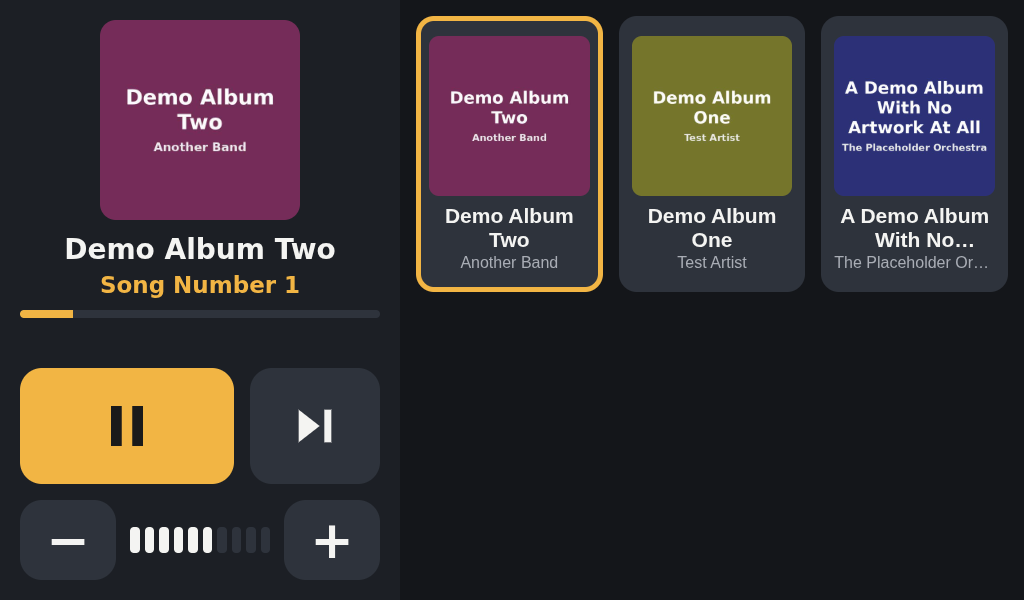
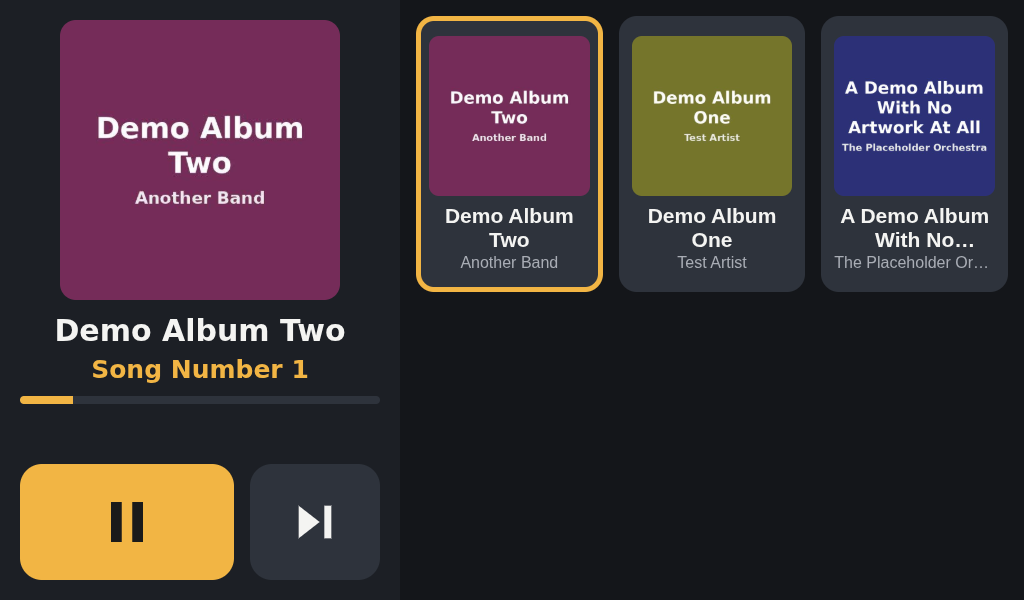
Remove in-app volume controls; set Pi output to full at startup

diff --git a/nonafi/static/style.css b/nonafi/static/style.css
@@ -24,10 +24,10 @@ body { display: flex; }
 .idle-text { font-size: 30px; font-weight: 700; color: var(--fg); }
 .idle-arrow { font-size: 64px; line-height: 1; color: var(--accent); }
 #playing { flex: 1; display: flex; flex-direction: column; min-height: 0; }
-#cover { width: 200px; height: 200px; border-radius: 16px; background: #333; object-fit: cover; align-self: center; }
-.title { font-size: 28px; font-weight: 800; line-height: 1.15; margin-top: 14px; text-align: center;
+#cover { width: 280px; height: 280px; border-radius: 16px; background: #333; object-fit: cover; align-self: center; }
+.title { font-size: 30px; font-weight: 800; line-height: 1.15; margin-top: 14px; text-align: center;
   overflow: hidden; display: -webkit-box; -webkit-line-clamp: 2; -webkit-box-orient: vertical; }
-.track { font-size: 23px; font-weight: 700; color: var(--accent); margin-top: 6px; text-align: center;
+.track { font-size: 25px; font-weight: 700; color: var(--accent); margin-top: 6px; text-align: center;
   white-space: nowrap; overflow: hidden; text-overflow: ellipsis; }
 .progress { height: 8px; background: var(--btn); border-radius: 4px; margin-top: 12px; overflow: hidden; }
 #bar { height: 100%; width: 0; background: var(--accent); }
@@ -40,11 +40,6 @@ body { display: flex; }
 .play:active { background: #ffc85c; }
 .skip { width: 130px; height: 116px; }
 .skip svg { width: 56px; height: 56px; }
-.volume { display: flex; align-items: center; gap: 14px; margin-top: 16px; }
-.vol { width: 96px; height: 80px; font-size: 52px; line-height: 1; }
-.vol-meter { flex: 1; display: flex; gap: 5px; height: 26px; }
-.vol-meter i { flex: 1; background: var(--btn); border-radius: 4px; }
-.vol-meter i.on { background: var(--fg); }
 
 /* Right: album pages */
 #library { flex: 1; position: relative; display: flex; }

diff --git a/nonafi/static/app.js b/nonafi/static/app.js
@@ -7,7 +7,6 @@
   let current = null;   // album being played
   let index = 0;        // song index in that album
   let page = 0;
-  let volume = 50;
 
   // ---- album pages ----------------------------------------------------
   async function loadAlbums() {
@@ -101,31 +100,6 @@
   audio.addEventListener("timeupdate", () => {
     $("bar").style.width = (audio.duration ? (audio.currentTime / audio.duration) * 100 : 0) + "%";
   });
-
-  // ---- volume (real system volume, via the server) ---------------------
-  function renderVolume() {
-    const m = $("vol-meter");
-    m.innerHTML = "";
-    for (let i = 1; i <= 10; i++) {
-      const s = document.createElement("i");
-      if (volume >= i * 10 - 5) s.classList.add("on");
-      m.appendChild(s);
-    }
-  }
-  async function setVolume(v) {
-    volume = Math.max(0, Math.min(100, v));
-    renderVolume();
-    try {
-      const res = await fetch("/api/volume", { method: "POST", headers: { "Content-Type": "application/json" },
-        body: JSON.stringify({ volume }) });
-      const data = await res.json();
-      if (typeof data.volume === "number") { volume = data.volume; renderVolume(); }
-    } catch (e) {}
-  }
-  $("vol-up").addEventListener("click", () => setVolume(volume + 10));
-  $("vol-down").addEventListener("click", () => setVolume(volume - 10));
-  fetch("/api/volume").then(r => r.json()).then(d => { if (typeof d.volume === "number") volume = d.volume; renderVolume(); })
-    .catch(renderVolume);
 
   // No long-press menus, no pinch zoom.
   document.addEventListener("contextmenu", (e) => e.preventDefault());

diff --git a/nonafi/static/index.html b/nonafi/static/index.html
@@ -29,11 +29,6 @@
       </button>
     </div>
   </div>
-  <div class="volume">
-    <button id="vol-down" class="btn vol" aria-label="Quieter">&#8722;</button>
-    <div class="vol-meter" id="vol-meter"></div>
-    <button id="vol-up" class="btn vol" aria-label="Louder">+</button>
-  </div>
 </aside>
 
 <main id="library">

diff --git a/nonafi/server.py b/nonafi/server.py
@@ -1,4 +1,4 @@
-"""HTTP server: static UI, album JSON, cover images, audio with Range support, volume."""
+"""HTTP server: static UI, album JSON, cover images, audio with Range support."""
 
 from __future__ import annotations
 
@@ -26,23 +26,13 @@ MIME = {
 }
 
 
-def get_volume() -> int | None:
+def set_output_full() -> None:
+    """Volume is controlled on the speakers, so give them the full signal."""
     try:
-        out = subprocess.run(["wpctl", "get-volume", "@DEFAULT_AUDIO_SINK@"], capture_output=True, text=True, timeout=3).stdout
-        m = re.search(r"([\d.]+)", out)
-        return round(float(m.group(1)) * 100) if m else None
-    except Exception:
-        return None
-
-
-def set_volume(pct: int) -> int | None:
-    pct = max(0, min(100, pct))
-    try:
-        subprocess.run(["wpctl", "set-volume", "@DEFAULT_AUDIO_SINK@", f"{pct / 100:.2f}"], timeout=3)
+        subprocess.run(["wpctl", "set-volume", "@DEFAULT_AUDIO_SINK@", "1.0"], timeout=3)
         subprocess.run(["wpctl", "set-mute", "@DEFAULT_AUDIO_SINK@", "0"], timeout=3)
     except Exception:
         pass
-    return get_volume()
 
 
 class Handler(BaseHTTPRequestHandler):
@@ -60,8 +50,6 @@ class Handler(BaseHTTPRequestHandler):
         if path == "/api/albums":
             self.library.refresh_if_changed()
             return self._json(self.library.to_json())
-        if path == "/api/volume":
-            return self._json({"volume": get_volume()})
         if path.startswith("/covers/"):
             aid = path[len("/covers/"):].split(".")[0].split("-")[0]
             album = self.library.albums.get(aid)
@@ -88,8 +76,6 @@ class Handler(BaseHTTPRequestHandler):
             body = json.loads(self.rfile.read(length) or b"{}") if length else {}
         except ValueError:
             return self._error(HTTPStatus.BAD_REQUEST)
-        if path == "/api/volume":
-            return self._json({"volume": set_volume(int(body.get("volume", 50)))})
         if path == "/api/rescan":
             self.library._signature = None
             changed = self.library.refresh_if_changed()
@@ -173,6 +159,7 @@ def main(argv=None):
     lib = Library(music)
     lib.refresh_if_changed()
     Handler.library = lib
+    set_output_full()
     server = ThreadingHTTPServer((host, port), Handler)
     server.daemon_threads = True
     print(f"nonafi: {len(lib.albums)} albums from {music}, listening on http://{host}:{port}", flush=True)

diff --git a/README.md b/README.md
@@ -2,7 +2,7 @@
 
 A one-screen jukebox for a Raspberry Pi 5 with a 7" touchscreen, built for someone who should never have to learn an interface.
 
-Everything is on a single screen. The right side shows pages of big album covers with up/down arrows when there is more than one page. Tap a cover and it plays from the first song. The left side shows what is playing with a big Play/Pause, Next, and volume minus/plus. The playing album gets a gold border. Songs play through in order and stop at the end of the album. Tapping the album that is already playing does nothing, so a stray tap never restarts it.
+Everything is on a single screen. The right side shows pages of big album covers with up/down arrows when there is more than one page. Tap a cover and it plays from the first song. The left side shows what is playing with a big Play/Pause and Next. Volume is controlled on the speakers. The playing album gets a gold border. Songs play through in order and stop at the end of the album. Tapping the album that is already playing does nothing, so a stray tap never restarts it.
 
 Runs entirely as the normal desktop user on the Pi. No sudo needed.
 
@@ -12,7 +12,7 @@ Runs entirely as the normal desktop user on the Pi. No sudo needed.
 - `nonafi/static/` is the UI, one page sized for 1024x600.
 - `pi/nonafi.service` runs the server as a systemd user service.
 - `pi/kiosk.sh` launches Chromium full-screen on the touchscreen, started from `~/.config/labwc/autostart`.
-- Volume buttons set the real system volume through PipeWire (`wpctl`).
+- On startup the server sets the Pi output to full volume and unmuted through PipeWire (`wpctl`), so the speakers' own volume control has its whole range.
 - After ten minutes without a touch the page fades to about 30% brightness. The next touch only wakes it, so a wake-up tap can never start an album. The panel is an LCD, so there is no burn-in risk; this just saves backlight and stray light at night.
 - The server listens on localhost only. The kiosk is the only client, so nothing is exposed to the network. Set `NONAFI_HOST=0.0.0.0` in the service file if you want to open the page from another device.
 - Chromium's remote debugging port stays off unless `~/.config/nonafi/debug` exists on the Pi. It is handy for driving the UI from a script while developing.
